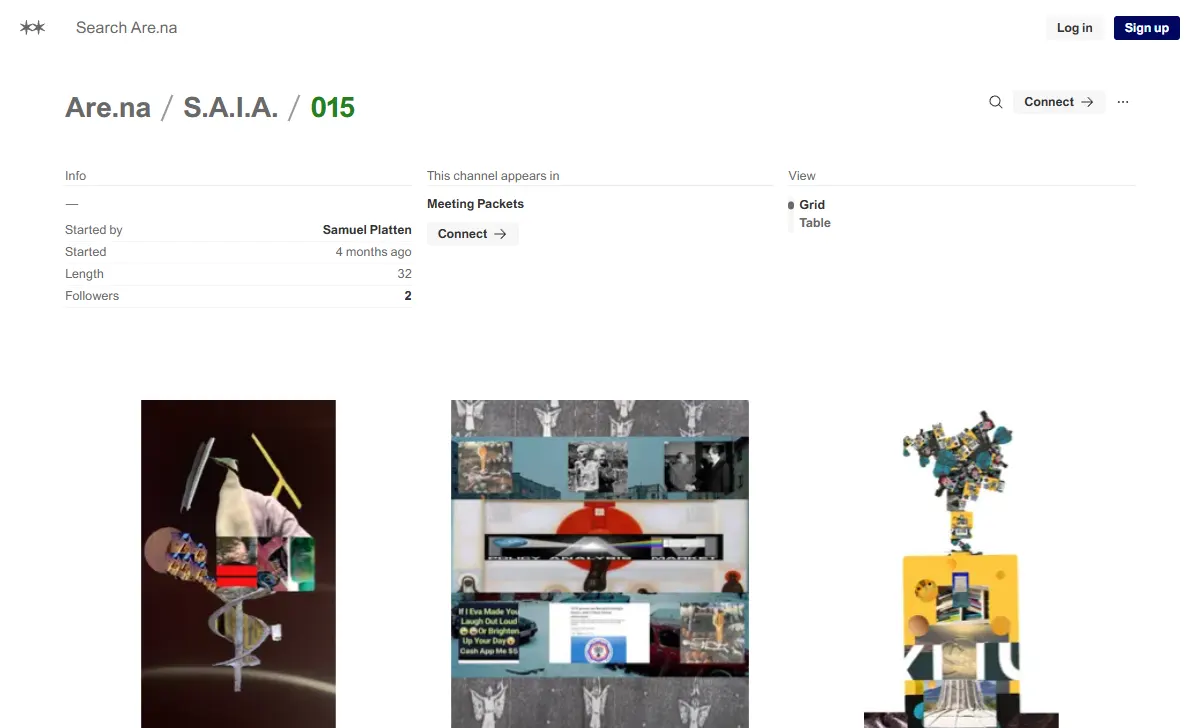
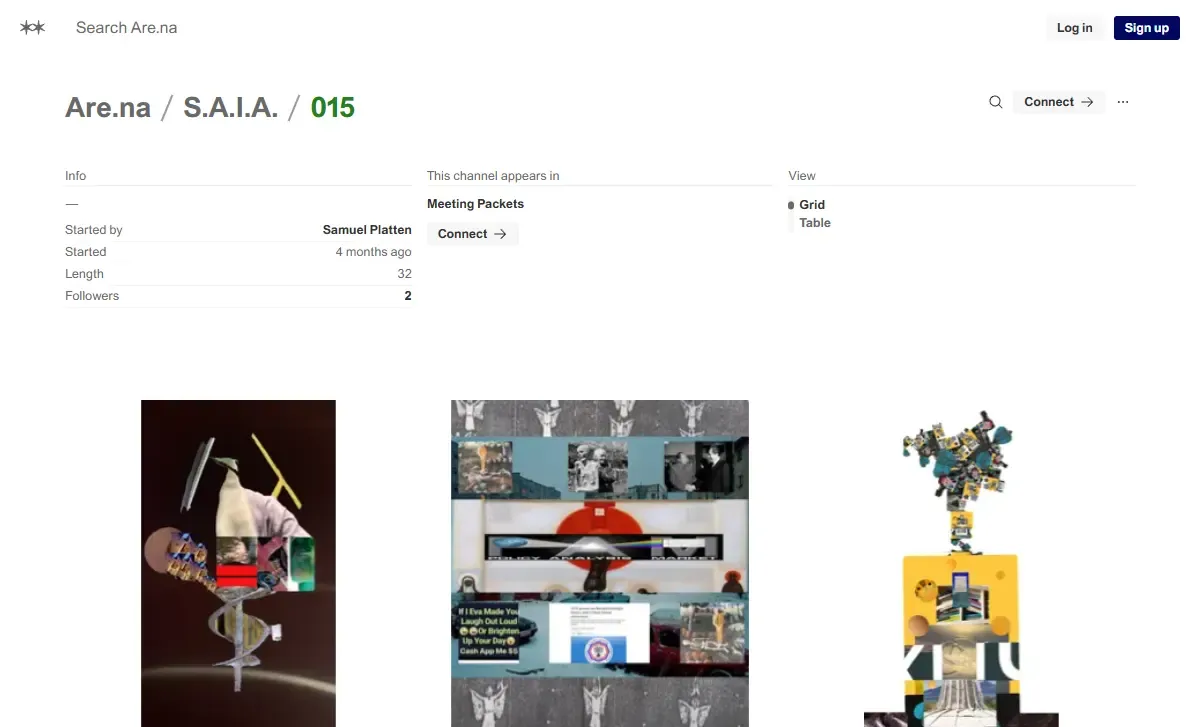
Crop Files website thumbnails to preview cards

diff --git a/saia/files-thumbnails.js b/saia/files-thumbnails.js
@@ -1,152 +1,152 @@
 // Public website snapshots; regenerate with scripts/capture-file-thumbnails.cjs.
 const FILE_THUMBNAILS = {
   "https://www.are.na/s-a-i-a-p6eg8zx1sme/zero-zero-one-lu6dplv7fqe": {
-    "src": "./assets/files/thumbnails/channel-001.webp",
+    "src": "./assets/files/thumbnails/channel-001.webp?v=2",
     "title": "001 | Are.na",
     "capturedAt": "2026-11-18T00:58:06.400Z"
   },
   "https://www.are.na/s-a-i-a-p6eg8zx1sme/zero-zero-two-3z-tapg0s7y": {
-    "src": "./assets/files/thumbnails/channel-002.webp",
+    "src": "./assets/files/thumbnails/channel-002.webp?v=2",
     "title": "002 | Are.na",
     "capturedAt": "2026-11-18T00:58:05.423Z"
   },
   "https://www.are.na/s-a-i-a-p6eg8zx1sme/zero-zero-three-axpqiyuymt0": {
-    "src": "./assets/files/thumbnails/channel-003.webp",
+    "src": "./assets/files/thumbnails/channel-003.webp?v=2",
     "title": "003 | Are.na",
     "capturedAt": "2026-11-18T00:58:11.338Z"
   },
   "https://www.are.na/s-a-i-a-p6eg8zx1sme/zero-zero-four-svxodjgpvug": {
-    "src": "./assets/files/thumbnails/channel-004.webp",
+    "src": "./assets/files/thumbnails/channel-004.webp?v=2",
     "title": "004 | Are.na",
     "capturedAt": "2026-11-18T00:58:11.428Z"
   },
   "https://www.are.na/s-a-i-a-p6eg8zx1sme/zero-zero-five-txf6znoe_2y": {
-    "src": "./assets/files/thumbnails/channel-005.webp",
+    "src": "./assets/files/thumbnails/channel-005.webp?v=2",
     "title": "005 | Are.na",
     "capturedAt": "2026-11-18T00:58:16.187Z"
   },
   "https://www.are.na/s-a-i-a-p6eg8zx1sme/zero-zero-six-waw_evzebhi": {
-    "src": "./assets/files/thumbnails/channel-006.webp",
+    "src": "./assets/files/thumbnails/channel-006.webp?v=2",
     "title": "006 | Are.na",
     "capturedAt": "2026-11-18T00:58:16.279Z"
   },
   "https://www.are.na/s-a-i-a-p6eg8zx1sme/zero-zero-seven-qyjwuwf9rgy": {
-    "src": "./assets/files/thumbnails/channel-007.webp",
+    "src": "./assets/files/thumbnails/channel-007.webp?v=2",
     "title": "007 | Are.na",
     "capturedAt": "2026-11-18T00:58:20.672Z"
   },
   "https://www.are.na/s-a-i-a-p6eg8zx1sme/zero-zero-eight-aa7ev7afyt4": {
-    "src": "./assets/files/thumbnails/channel-008.webp",
+    "src": "./assets/files/thumbnails/channel-008.webp?v=2",
     "title": "008 | Are.na",
     "capturedAt": "2026-11-18T00:58:19.828Z"
   },
   "https://www.are.na/s-a-i-a-p6eg8zx1sme/zero-zero-nine-mtdredegxag": {
-    "src": "./assets/files/thumbnails/channel-009.webp",
+    "src": "./assets/files/thumbnails/channel-009.webp?v=2",
     "title": "009 | Are.na",
     "capturedAt": "2026-11-18T00:58:23.058Z"
   },
   "https://www.are.na/s-a-i-a-p6eg8zx1sme/zero-one-zero-ucnvcrk4xlq": {
-    "src": "./assets/files/thumbnails/channel-010.webp",
+    "src": "./assets/files/thumbnails/channel-010.webp?v=2",
     "title": "010 | Are.na",
     "capturedAt": "2026-11-18T00:58:24.175Z"
   },
   "https://www.are.na/s-a-i-a-p6eg8zx1sme/zero-one-one-ubondb4ueck": {
-    "src": "./assets/files/thumbnails/channel-011.webp",
+    "src": "./assets/files/thumbnails/channel-011.webp?v=2",
     "title": "011 | Are.na",
     "capturedAt": "2026-11-18T00:58:28.868Z"
   },
   "https://www.are.na/s-a-i-a-p6eg8zx1sme/zero-one-two-sgviiysdqks": {
-    "src": "./assets/files/thumbnails/channel-012.webp",
+    "src": "./assets/files/thumbnails/channel-012.webp?v=2",
     "title": "012 | Are.na",
     "capturedAt": "2026-11-18T00:58:28.961Z"
   },
   "https://www.are.na/s-a-i-a-p6eg8zx1sme/zero-one-three-eo5xw2oytos": {
-    "src": "./assets/files/thumbnails/channel-013.webp",
+    "src": "./assets/files/thumbnails/channel-013.webp?v=2",
     "title": "013 | Are.na",
     "capturedAt": "2026-11-18T00:58:37.748Z"
   },
   "https://www.are.na/s-a-i-a-p6eg8zx1sme/zero-one-four-l6ulqhw7jiy": {
-    "src": "./assets/files/thumbnails/channel-014.webp",
+    "src": "./assets/files/thumbnails/channel-014.webp?v=2",
     "title": "014 | Are.na",
     "capturedAt": "2026-11-18T00:58:32.994Z"
   },
   "https://www.are.na/s-a-i-a-p6eg8zx1sme/zero-one-five-06wzje0mvt0": {
-    "src": "./assets/files/thumbnails/channel-015.webp",
+    "src": "./assets/files/thumbnails/channel-015.webp?v=2",
     "title": "015 | Are.na",
     "capturedAt": "2026-11-18T00:58:37.849Z"
   },
   "https://www.are.na/s-a-i-a-p6eg8zx1sme/zero-one-six-zijc03bsqvi": {
-    "src": "./assets/files/thumbnails/channel-016.webp",
+    "src": "./assets/files/thumbnails/channel-016.webp?v=2",
     "title": "016 | Are.na",
     "capturedAt": "2026-11-18T00:58:41.422Z"
   },
   "https://www.are.na/s-a-i-a-p6eg8zx1sme/zero-one-seven-sjk2bvshvkc": {
-    "src": "./assets/files/thumbnails/channel-017.webp",
+    "src": "./assets/files/thumbnails/channel-017.webp?v=2",
     "title": "017 | Are.na",
     "capturedAt": "2026-11-18T00:58:41.888Z"
   },
   "https://www.are.na/s-a-i-a-p6eg8zx1sme/zero-one-eight-s14mvjeahiu": {
-    "src": "./assets/files/thumbnails/channel-018.webp",
+    "src": "./assets/files/thumbnails/channel-018.webp?v=2",
     "title": "018 | Are.na",
     "capturedAt": "2026-11-18T00:58:46.541Z"
   },
   "https://www.are.na/s-a-i-a-p6eg8zx1sme/zero-one-nine-wwyfeck_upu": {
-    "src": "./assets/files/thumbnails/channel-019.webp",
+    "src": "./assets/files/thumbnails/channel-019.webp?v=2",
     "title": "019 | Are.na",
     "capturedAt": "2026-11-18T00:58:46.645Z"
   },
   "https://www.are.na/s-a-i-a-p6eg8zx1sme/zero-two-zero-vhzuuorxvau": {
-    "src": "./assets/files/thumbnails/channel-020.webp",
+    "src": "./assets/files/thumbnails/channel-020.webp?v=2",
     "title": "020 | Are.na",
     "capturedAt": "2026-11-18T00:58:55.819Z"
   },
   "https://www.are.na/s-a-i-a-p6eg8zx1sme/zero-two-one-axtefl83cr4": {
-    "src": "./assets/files/thumbnails/channel-021.webp",
+    "src": "./assets/files/thumbnails/channel-021.webp?v=2",
     "title": "021 | Are.na",
     "capturedAt": "2026-11-18T00:58:51.048Z"
   },
   "https://www.are.na/s-a-i-a-p6eg8zx1sme/zero-two-two-neqr-nohua8": {
-    "src": "./assets/files/thumbnails/channel-022.webp",
+    "src": "./assets/files/thumbnails/channel-022.webp?v=2",
     "title": "022 | Are.na",
     "capturedAt": "2026-11-18T00:58:55.953Z"
   },
   "https://www.are.na/s-a-i-a-p6eg8zx1sme/zero-two-three-5qjrxcfaoas": {
-    "src": "./assets/files/thumbnails/channel-023.webp",
+    "src": "./assets/files/thumbnails/channel-023.webp?v=2",
     "title": "023 | Are.na",
     "capturedAt": "2026-11-18T00:59:02.945Z"
   },
   "https://www.are.na/s-a-i-a-p6eg8zx1sme/zero-two-four-zdhz3ete2ji": {
-    "src": "./assets/files/thumbnails/channel-024.webp",
+    "src": "./assets/files/thumbnails/channel-024.webp?v=2",
     "title": "024 | Are.na",
     "capturedAt": "2026-11-18T00:59:00.067Z"
   },
   "https://www.are.na/s-a-i-a-p6eg8zx1sme/zero-two-five-owaecilusuq": {
-    "src": "./assets/files/thumbnails/channel-025.webp",
+    "src": "./assets/files/thumbnails/channel-025.webp?v=2",
     "title": "025 | Are.na",
     "capturedAt": "2026-11-18T00:59:04.173Z"
   },
   "https://www.are.na/s-a-i-a-p6eg8zx1sme/zero-two-six-shnovenludu": {
-    "src": "./assets/files/thumbnails/channel-026.webp",
+    "src": "./assets/files/thumbnails/channel-026.webp?v=2",
     "title": "026 | Are.na",
     "capturedAt": "2026-11-18T00:59:09.693Z"
   },
   "https://www.are.na/": {
-    "src": "./assets/files/thumbnails/tool-arena.webp",
+    "src": "./assets/files/thumbnails/tool-arena.webp?v=2",
     "title": "Are.na",
     "capturedAt": "2026-11-18T00:59:08.673Z"
   },
   "https://web.archive.org/": {
-    "src": "./assets/files/thumbnails/tool-wayback.webp",
+    "src": "./assets/files/thumbnails/tool-wayback.webp?v=2",
     "title": "Wayback Machine",
     "capturedAt": "2026-11-18T00:59:15.504Z"
   },
   "https://fonts.google.com/": {
-    "src": "./assets/files/thumbnails/tool-google-fonts.webp",
+    "src": "./assets/files/thumbnails/tool-google-fonts.webp?v=2",
     "title": "Browse Fonts - Google Fonts",
     "capturedAt": "2026-11-18T00:59:14.402Z"
   },
   "https://github.com/": {
-    "src": "./assets/files/thumbnails/tool-github.webp",
+    "src": "./assets/files/thumbnails/tool-github.webp?v=2",
     "title": "GitHub · Change is constant. GitHub keeps you ahead. · GitHub · GitHub",
     "capturedAt": "2026-11-18T00:59:18.919Z"
   }

diff --git a/saia/files.css b/saia/files.css
@@ -36,7 +36,7 @@
 .folder-empty { font-size: .8rem; color: #e1dee8; margin: .5rem 0 .5rem 70px; }
 .file-preview { position: absolute; left: 48.5vw; right: 16.5vw; top: 13%; margin: 0; }
 .preview-link { display: block; width: 100%; aspect-ratio: 1.65; box-shadow: 0 2px 5px #0004; animation: preview-in 450ms ease-in both; animation-delay: 300ms; }
-.preview-image { display: block; width: 100%; height: 100%; object-fit: cover; }
+.preview-image { display: block; width: 100%; height: 100%; object-fit: cover; object-position: center; background: #e1dee8; }
 .preview-caption { position: relative; margin: 2rem auto 0; width: 94%; text-align: center; font-size: clamp(.8rem, .85vw, 1rem); line-height: 1.35; font-family: "aktiv-grotesk", Arial, sans-serif; font-weight: 400; font-style: italic; }
 .caption-space { visibility: hidden; }
 .caption-typed { position: absolute; inset: 0; }

diff --git a/saia/DESIGN_SYSTEM.md b/saia/DESIGN_SYSTEM.md
@@ -13,7 +13,7 @@
 - **Navigation:** Fixed, opaque `#848484` bottom bar with a far-left home link using `house-icon.svg`, followed by four Aktiv Grotesk Bold uppercase links: Meetings, Files, Manifesto, and Contact. Contact links to `contact.html` on every page. A centered flex row uses one responsive, equal `gap` between every item, preserving symmetric outer breathing room at all viewport widths. `--nav-height` reserves a logo-free clearance band at every viewport size.
 - **Meetings draft:** `meetings.html` implements the Figma Past Meetings composition: heading, chronological scroll-driven winding image trail in a sticky viewport, selected meeting detail panel, and bottom navigation in Home → Meetings → Files → Manifesto → Contact order. Native vertical scrolling advances the largest foreground image while subsequent images recede along a continuous tightening logarithmic spiral. Additional filler meetings 023–018 make the hooked tail visible; click and arrow-key controls also select meetings. Meetings page arrow keys work globally: Left/Down advance toward the previous spiral card; Up/Right advance toward the next card. Home/End jump to the archive bounds. Reduced-motion uses discrete states rather than continuous transforms. Only meeting 027 uses supplied Figma copy; meetings 026–024 have intentional filler labels/descriptions and CSS artwork placeholders awaiting archive assets.
 - **Meetings entrance:** After layout and image decoding, cards fade up 12px over 950ms using a slow-start ease-in-out curve (`.42,0,.58,1`) in closest-to-furthest order, with at least 140ms between starts. Cards are hidden from first CSS paint until their decoded-image reveal; image containers are transparent, preventing a lavender placeholder flash. Reduced-motion still waits for image readiness but reveals without animation. CSS entrance translate/opacity is separate from JavaScript spiral transforms and depth ordering. Reduced-motion skips the entrance. Versioned CSS/JS URLs prevent cached prior behavior.
-- **Files directory:** `files.html` has SAIA Channels (verified 001–026), Tools (Are.na, Wayback Machine, Google Fonts, GitHub), and Resources (empty pending content). Pointer hover and arrow keys highlight white labels in `#e1dee8`. Hovered/selected labels and open folders shift only by the marker width (.75em) plus a .5rem gap using 240ms ease-out left padding; the arrow stays aligned with unshifted sibling titles. Padding preserves the hover hit area instead of translating it away from the pointer. Pointer exit fades emphasis back to white over 320ms ease-out, retaining the keyboard cursor and persistent open/selected marker. Children retain the original 70px desktop / 25px mobile browsing indent and unfold with a 700ms clipped reveal rather than fading/replacing the directory. The same `>` marker rotates 90° when a folder opens and back on close, with a .5rem marker gap. Folder buttons remain mounted so the rotation transitions rather than swapping characters. Directory focus has no box outline; the focus handler supplies the arrow, color change, and nudge as visible keyboard-focus indicators. Enter previews an item, a second Enter opens its URL; clicking a preview card opens the URL. Escape closes preview then folder. Selected Files previews use locally captured, optimized WebP website thumbnails from each verified public URL (`assets/files/thumbnails/` with `files-thumbnails.js` manifest). They preserve the existing card dimensions, connector, delayed reveal and caption behavior; a failed/missing thumbnail falls back to the solid `#e1dee8` placeholder without blocking selection. A 300ms ease-in connector precedes a 450ms preview reveal. Description uses Aktiv Grotesk 400 italic with reserved full-text geometry and cancellable typewriting. Mobile stacks the directory and preview with a horizontal rule above the card; subfolders hide scrollbars and page at most eight entries at a time with left-aligned up/down indicators. Reduced-motion removes motion and typing. Navigation label is Files universally; Resources remains a subfolder. The fixed bottom navigation centers its links vertically within the bar (including the reserved bottom safe-area padding) across Home, Meetings and Files. On mobile Home, a canvas-colored mask begins at the body-copy block and spans the full viewport width to the bottom, with its top .35rem above the body-copy block to match the annotated boundary, preserving readable copy over a calmer field.
+- **Files directory:** `files.html` has SAIA Channels (verified 001–026), Tools (Are.na, Wayback Machine, Google Fonts, GitHub), and Resources (empty pending content). Pointer hover and arrow keys highlight white labels in `#e1dee8`. Hovered/selected labels and open folders shift only by the marker width (.75em) plus a .5rem gap using 240ms ease-out left padding; the arrow stays aligned with unshifted sibling titles. Padding preserves the hover hit area instead of translating it away from the pointer. Pointer exit fades emphasis back to white over 320ms ease-out, retaining the keyboard cursor and persistent open/selected marker. Children retain the original 70px desktop / 25px mobile browsing indent and unfold with a 700ms clipped reveal rather than fading/replacing the directory. The same `>` marker rotates 90° when a folder opens and back on close, with a .5rem marker gap. Folder buttons remain mounted so the rotation transitions rather than swapping characters. Directory focus has no box outline; the focus handler supplies the arrow, color change, and nudge as visible keyboard-focus indicators. Enter previews an item, a second Enter opens its URL; clicking a preview card opens the URL. Escape closes preview then folder. Selected Files previews use locally captured, optimized WebP website thumbnails from each verified public URL (`assets/files/thumbnails/` with `files-thumbnails.js` manifest). They are center-cropped to the desktop preview's 1.65:1 card ratio, use `object-fit: cover`/center positioning, and preserve the existing card dimensions, connector, delayed reveal and caption behavior; a failed/missing thumbnail falls back to the solid `#e1dee8` placeholder without blocking selection. A 300ms ease-in connector precedes a 450ms preview reveal. Description uses Aktiv Grotesk 400 italic with reserved full-text geometry and cancellable typewriting. Mobile stacks the directory and preview with a horizontal rule above the card; subfolders hide scrollbars and page at most eight entries at a time with left-aligned up/down indicators. Reduced-motion removes motion and typing. Navigation label is Files universally; Resources remains a subfolder. The fixed bottom navigation centers its links vertically within the bar (including the reserved bottom safe-area padding) across Home, Meetings and Files. On mobile Home, a canvas-colored mask begins at the body-copy block and spans the full viewport width to the bottom, with its top .35rem above the body-copy block to match the annotated boundary, preserving readable copy over a calmer field.
 - **Shared typography trial (2026-11-10):** `typography.css` loads after each page stylesheet. Shared page headings scale 28–40px (1.1 leading), body/descriptions 15–16px (1.5 leading), and interface labels/links/navigation 13–14px. Home display wordmark remains bespoke. The trial's layout overrides were removed on 2026-11-12: Home uses its original mobile hero dimensions and content flow; Meetings uses its original card size, spacing and description width. `mobile-fit.js` shifts only overflowing mobile content upward enough to clear navigation by 16px, without scaling the page or changing text size. Files retains italic captions. Tested initial content at 320×568, 390×844, 640×900, 768×1024, 1440×900 and 1920×1080; not a complete all-content/zoom/landscape certification. This shared override can be removed to revert the trial without rewriting original page rules.
 - **Files composition (corrected):** The heading is screen-reader-only. Preserve the original internal layout: folder spacing and indents, 3× overview (2.5× ≤380px), 2× browsing and 1× preview scales, spring transition, preview dimensions, relative directory/card placement and caption gap. Centering is applied only as a translation to the outer `.files-layout` wrapper using the group's combined bounds; no internal flex redistribution, new indents, resizing or equalization. It eases toward the new center over 700ms as expansion/shrink settles. Opening a main folder switches to its final browsing size while hidden, then fades the whole composition in over 480ms with a small vertical spring settle (10px → −2px → 0). No scale interpolation occurs during folder opening. Child rows do not run a second fade. Preview selection retains its existing shrink behavior; reduced motion skips the folder entrance, and rapid selection/Escape cancels stale animation. On page entry only, the three folder labels fade top-to-bottom with Home's 720ms ease and .08/.27/.46s delays; selection does not replay the intro fade. Hidden previews reserve their original footprint/caption before reveal. Escape reverses stages and reduced motion remains immediate.
 - **Files subfolder windows:** No visible scrollbar. Show at most eight entries; adapt downward on short viewports so end indicators fit. Left-aligned ↑/↓ buttons use inherited Regular typography and indicate previous/more entries at the top/bottom, respectively. Arrows page the window, and keyboard navigation moves seamlessly through all items. Hidden-window items do not enter tab order. Viewport resizing, font readiness and state/window changes recalculate capacity. The height budget includes all sibling folder headings, both directional indicators and the full preview/caption on mobile, keeping the entire group above the main bar. There are no absolute top offsets or directory scroll clipping.
